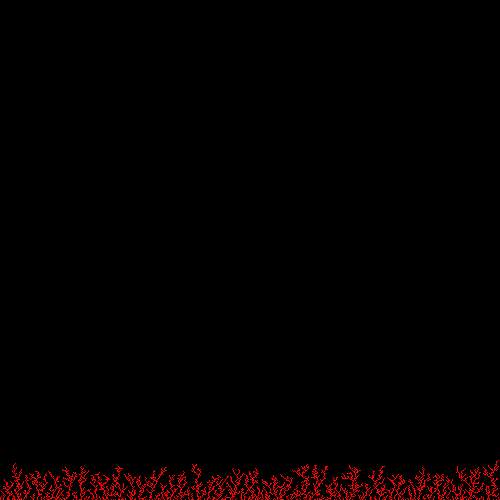
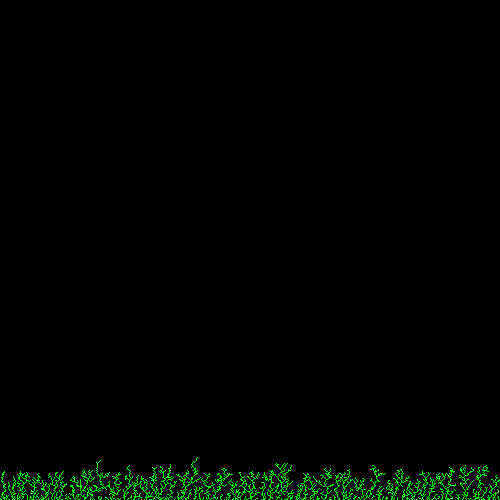
respects color, outputs some stats

Changed region(s): [[0.0, 0.93, 1.0, 1.0]]

diff --git a/src/dla/mod.rs b/src/dla/mod.rs
@@ -118,7 +118,7 @@ impl DLAField {
               self.positionHash[x as usize][y as usize] = FieldPosition::EMPTY;
             } else {
               self.positionHash[x as usize][y as usize] = FieldPosition::STUCK(ColorizedPoint {
-                  color: [255, 0, 0, 255]
+                  color: [0, 255, 0, 255]
                 });
             }
           },
@@ -252,6 +252,25 @@ impl DLAField {
     }
 
     false
+  }
+
+  // this is more for testing
+  pub fn getStuckCount(&self) -> u32 {
+    let mut cnt = 0;
+
+    for x in 0..self.getWidth() {
+      for y in 0..self.getHeight() {
+        match &self.positionHash[x][y] {
+          FieldPosition::EMPTY => {}
+          FieldPosition::OCCUPIED(colorizedPoint) => {}
+          FieldPosition::STUCK(colorizedPoint) =>{
+            cnt +=  1;
+          }
+        }
+      }
+    }
+
+    cnt
   }
 }
 

diff --git a/src/main.rs b/src/main.rs
@@ -26,6 +26,7 @@ fn main() {
    }
 
    println!("done in {}", start.to(PreciseTime::now()));
+   println!("with {} stuck points out of {}", dlaField.getStuckCount(), NUM_POINTS);
    saveToPNG(&dlaField);
 }
 
